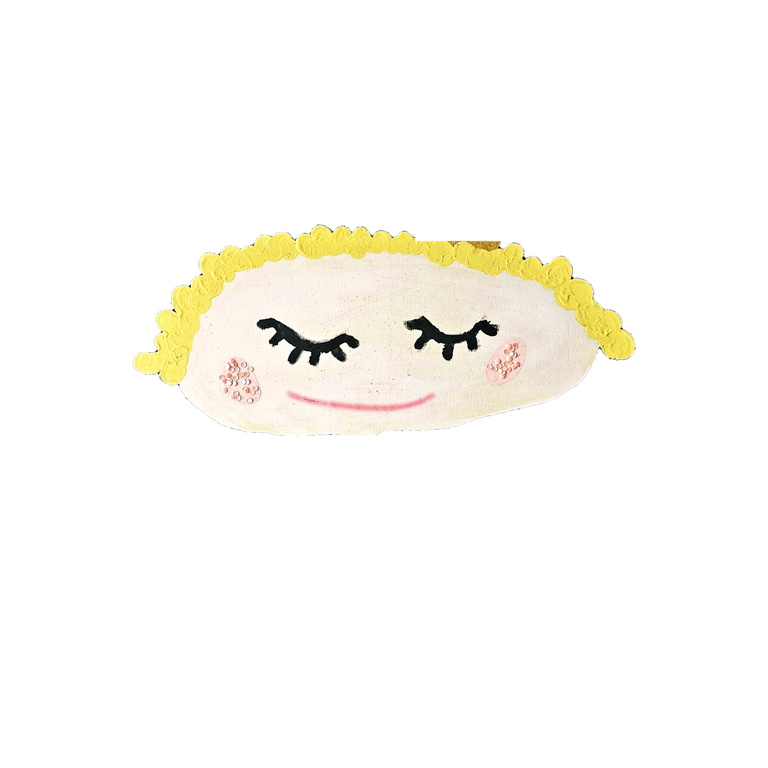
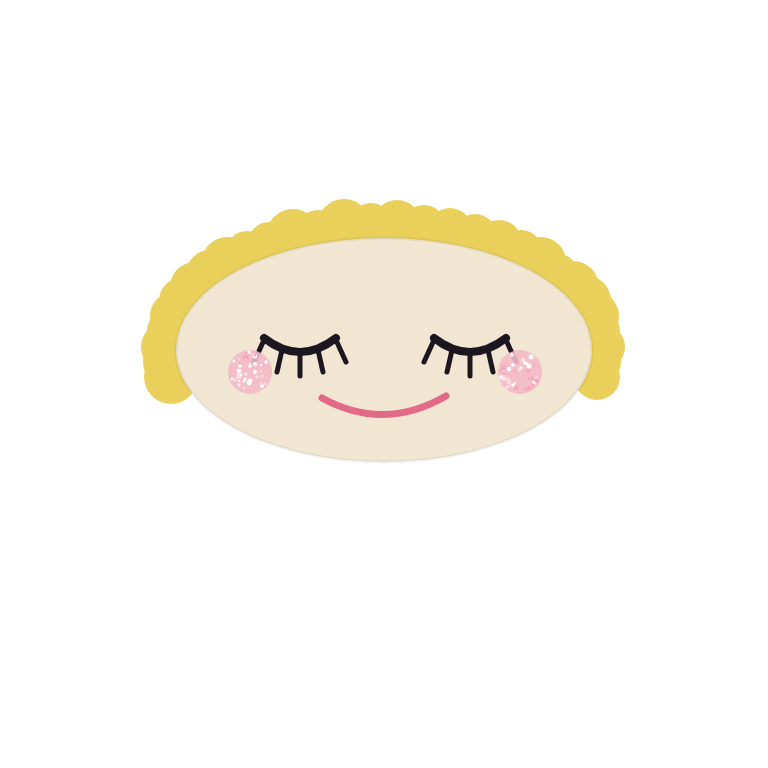
Runde Sonne, schwarze Schrift unten, Principesse als gezeichnete Figuren
Claude-Session: https://claude.ai/code/session_01EXrTH5dd9M1fFLb8w7hMWJ

Changed region(s): [[0.1562, 0.25, 0.8438, 0.625]]

diff --git a/index.html b/index.html
@@ -9,8 +9,8 @@
 <link rel="preconnect" href="https://fonts.googleapis.com">
 <link rel="preconnect" href="https://fonts.gstatic.com" crossorigin>
 <link href="https://fonts.googleapis.com/css2?family=Cinzel+Decorative:wght@700;900&family=Fraunces:ital,opsz,wght,SOFT@0,9..144,300..700,100;1,9..144,300..700,100&family=Instrument+Sans:wght@400;500;600&display=swap" rel="stylesheet">
-<link rel="stylesheet" href="style.css?v=202611072259">
-<script type="importmap">{"imports":{"three":"./vendor/three.module.min.js","three/addons/":"./vendor/addons/","./js/figur.js":"./js/figur.js?v=202611072259","./js/rahmen.js":"./js/rahmen.js?v=202611072259","./js/zauber.js":"./js/zauber.js?v=202611072259","./js/bestellen.js":"./js/bestellen.js?v=202611072259","./js/hintergrund.js":"./js/hintergrund.js?v=202611072259"}}</script>
+<link rel="stylesheet" href="style.css?v=202611072307">
+<script type="importmap">{"imports":{"three":"./vendor/three.module.min.js","three/addons/":"./vendor/addons/","./js/figur.js":"./js/figur.js?v=202611072307","./js/rahmen.js":"./js/rahmen.js?v=202611072307","./js/zauber.js":"./js/zauber.js?v=202611072307","./js/bestellen.js":"./js/bestellen.js?v=202611072307","./js/hintergrund.js":"./js/hintergrund.js?v=202611072307"}}</script>
 </head>
 <body>
 <canvas id="staub" aria-hidden="true"></canvas>
@@ -75,7 +75,7 @@
                   <rect class="stapel" data-i="5" x="52" y="30" width="96" height="140" rx="5" fill="#0f474e" stroke="#c99a3c" stroke-width="1.5" transform="translate(4.2 -2.2) rotate(2.6 100 170)"/><rect class="stapel" data-i="4" x="52" y="30" width="96" height="140" rx="5" fill="#0f474e" stroke="#c99a3c" stroke-width="1.5" transform="translate(8.4 -4.4) rotate(5.2 100 170)"/><rect class="stapel" data-i="3" x="52" y="30" width="96" height="140" rx="5" fill="#0f474e" stroke="#c99a3c" stroke-width="1.5" transform="translate(12.6 -6.6) rotate(7.8 100 170)"/><rect class="stapel" data-i="2" x="52" y="30" width="96" height="140" rx="5" fill="#0f474e" stroke="#c99a3c" stroke-width="1.5" transform="translate(16.8 -8.8) rotate(10.4 100 170)"/><rect class="stapel" data-i="1" x="52" y="30" width="96" height="140" rx="5" fill="#0f474e" stroke="#c99a3c" stroke-width="1.5" transform="translate(21.0 -11.0) rotate(13.0 100 170)"/><rect class="stapel" data-i="0" x="52" y="30" width="96" height="140" rx="5" fill="#0f474e" stroke="#c99a3c" stroke-width="1.5" transform="translate(25.2 -13.2) rotate(15.6 100 170)"/>
                   <rect x="52" y="30" width="96" height="140" rx="5" fill="#13575f" stroke="#d4a429" stroke-width="2.5"/>
                   <rect x="59" y="37" width="82" height="126" rx="3" fill="none" stroke="#e6c76a" stroke-width="1" stroke-dasharray="2 3" opacity=".8"/><g class="glitzerdruck"><circle cx="76.8" cy="47.6" r="0.86" fill="#fff3c4" opacity="0.55"/><circle cx="57.7" cy="106.5" r="0.76" fill="#fff3c4" opacity="0.61"/><circle cx="103.2" cy="70.5" r="0.66" fill="#fff3c4" opacity="0.63"/><circle cx="139.0" cy="37.4" r="1.08" fill="#e6c76a" opacity="0.90"/><circle cx="73.0" cy="74.9" r="1.06" fill="#ffffff" opacity="0.98"/><circle cx="130.7" cy="83.2" r="1.26" fill="#e6c76a" opacity="0.84"/><circle cx="100.5" cy="57.5" r="0.93" fill="#fff3c4" opacity="0.97"/><circle cx="128.0" cy="158.4" r="1.26" fill="#fff3c4" opacity="0.95"/><circle cx="106.4" cy="150.5" r="1.26" fill="#ffffff" opacity="0.60"/><circle cx="93.3" cy="72.0" r="0.91" fill="#fff3c4" opacity="0.65"/><circle cx="127.5" cy="39.7" r="0.54" fill="#ffffff" opacity="1.00"/><circle cx="101.7" cy="119.5" r="1.13" fill="#fff3c4" opacity="1.00"/><circle cx="73.2" cy="88.5" r="0.68" fill="#ffffff" opacity="0.72"/><circle cx="72.2" cy="91.5" r="1.03" fill="#ffffff" opacity="0.78"/><circle cx="135.6" cy="47.3" r="0.56" fill="#fff3c4" opacity="0.64"/><circle cx="107.2" cy="147.8" r="0.61" fill="#fff3c4" opacity="0.65"/><circle cx="58.3" cy="81.1" r="0.57" fill="#e6c76a" opacity="0.87"/><circle cx="140.5" cy="36.4" r="0.76" fill="#fff3c4" opacity="0.89"/><circle cx="92.1" cy="158.5" r="1.06" fill="#fff3c4" opacity="0.65"/><circle cx="72.8" cy="92.6" r="0.62" fill="#e6c76a" opacity="0.80"/><circle cx="70.0" cy="109.6" r="0.83" fill="#e6c76a" opacity="0.58"/><circle cx="125.0" cy="81.9" r="0.76" fill="#fff3c4" opacity="0.72"/><circle cx="74.2" cy="155.0" r="0.60" fill="#fff3c4" opacity="0.53"/><circle cx="70.8" cy="123.3" r="0.63" fill="#fff3c4" opacity="0.77"/><circle cx="107.3" cy="76.4" r="0.53" fill="#ffffff" opacity="0.65"/><circle cx="143.7" cy="120.0" r="0.68" fill="#fff3c4" opacity="0.62"/><circle cx="92.1" cy="38.9" r="0.88" fill="#fff3c4" opacity="0.82"/><circle cx="93.6" cy="62.5" r="0.67" fill="#fff3c4" opacity="0.63"/><circle cx="77.3" cy="61.5" r="0.71" fill="#e6c76a" opacity="0.57"/><circle cx="60.5" cy="156.5" r="1.01" fill="#ffffff" opacity="0.70"/><circle cx="135.3" cy="120.3" r="1.21" fill="#ffffff" opacity="0.52"/><circle cx="90.1" cy="90.8" r="1.34" fill="#ffffff" opacity="0.95"/><circle cx="137.4" cy="78.4" r="1.09" fill="#ffffff" opacity="0.66"/><circle cx="93.0" cy="62.4" r="1.22" fill="#e6c76a" opacity="0.67"/><circle cx="90.5" cy="99.5" r="1.27" fill="#e6c76a" opacity="0.98"/><circle cx="114.8" cy="39.9" r="1.31" fill="#fff3c4" opacity="0.88"/><circle cx="79.7" cy="147.0" r="1.28" fill="#ffffff" opacity="0.82"/><circle cx="106.1" cy="132.5" r="1.33" fill="#fff3c4" opacity="0.90"/><circle cx="74.6" cy="54.7" r="1.05" fill="#e6c76a" opacity="0.56"/><circle cx="127.3" cy="137.4" r="1.29" fill="#ffffff" opacity="0.53"/><circle cx="139.7" cy="55.4" r="1.05" fill="#ffffff" opacity="0.89"/><circle cx="97.5" cy="103.5" r="0.52" fill="#fff3c4" opacity="0.85"/><circle cx="65.9" cy="108.0" r="0.73" fill="#fff3c4" opacity="0.52"/><circle cx="63.0" cy="150.0" r="1.31" fill="#e6c76a" opacity="0.92"/><circle cx="128.8" cy="45.2" r="0.99" fill="#e6c76a" opacity="0.60"/><circle cx="141.9" cy="85.3" r="1.18" fill="#e6c76a" opacity="0.55"/></g>
-                  <image href="assets/principessa2-figur.png?v=202611072259" x="55" y="50" width="90" height="90"/>
+                  <image href="assets/principessa2-figur.png?v=202611072307" x="55" y="50" width="90" height="90"/>
                   <path d="M132 44 l2 5 5 2 -5 2 -2 5 -2 -5 -5 -2 5 -2z M68 142 l1.5 4 4 1.5 -4 1.5 -1.5 4 -1.5 -4 -4 -1.5 4 -1.5z" fill="#e2b548"/>
                 </svg>
                 <span class="produkt-name">Karten</span>
@@ -97,7 +97,7 @@
                   <g class="tasche-koerper">
                     <path d="M64 74 C64 22 96 22 96 74 M104 74 C104 22 136 22 136 74" fill="none" stroke="#2c2766" stroke-width="7" stroke-linecap="round"/>
                     <path d="M44 72 H156 L163 184 H37 Z" fill="#1e1a4c" stroke="#2c2766" stroke-width="1.5" stroke-linejoin="round"/>
-                    <image href="assets/principessa3-schwanz.png?v=202611072259" x="55" y="80" width="90" height="90"/><image href="assets/principessa3-rumpf.png?v=202611072259" x="55" y="80" width="90" height="90"/><image href="assets/principessa3-kopf.png?v=202611072259" x="55" y="80" width="90" height="90"/><image href="assets/principessa3-krone.png?v=202611072259" x="55" y="80" width="90" height="90"/>
+                    <image href="assets/principessa3-schwanz.png?v=202611072307" x="55" y="80" width="90" height="90"/><image href="assets/principessa3-rumpf.png?v=202611072307" x="55" y="80" width="90" height="90"/><image href="assets/principessa3-kopf.png?v=202611072307" x="55" y="80" width="90" height="90"/><image href="assets/principessa3-krone.png?v=202611072307" x="55" y="80" width="90" height="90"/>
                   </g>
                 </svg>
                 <span class="produkt-name">Tasche</span>
@@ -122,8 +122,8 @@
                   <path class="shirt-stoff" d="M62 34 L84 26 Q100 40 116 26 L138 34 L172 62 L152 84 L140 74 V180 H60 V74 L48 84 L28 62 Z" fill="#f2c4d2" stroke="rgba(0,0,0,.14)" stroke-width="1.5" stroke-linejoin="round"/>
                   <path d="M84 26 Q100 40 116 26" fill="none" stroke="rgba(0,0,0,.14)" stroke-width="3"/>
                   <g class="motiv" data-motiv="Sonne"><image data-principessa="1" x="64" y="60" width="72" height="72"/></g>
-                  <g class="motiv" data-motiv="Tupfen" style="display:none"><image href="assets/principessa2-figur.png?v=202611072259" x="64" y="60" width="72" height="72"/></g>
-                  <g class="motiv" data-motiv="Meerjungfrau" style="display:none"><image href="assets/principessa3-schwanz.png?v=202611072259" x="64" y="60" width="72" height="72"/><image href="assets/principessa3-rumpf.png?v=202611072259" x="64" y="60" width="72" height="72"/><image href="assets/principessa3-kopf.png?v=202611072259" x="64" y="60" width="72" height="72"/><image href="assets/principessa3-krone.png?v=202611072259" x="64" y="60" width="72" height="72"/></g>
+                  <g class="motiv" data-motiv="Tupfen" style="display:none"><image href="assets/principessa2-figur.png?v=202611072307" x="64" y="60" width="72" height="72"/></g>
+                  <g class="motiv" data-motiv="Meerjungfrau" style="display:none"><image href="assets/principessa3-schwanz.png?v=202611072307" x="64" y="60" width="72" height="72"/><image href="assets/principessa3-rumpf.png?v=202611072307" x="64" y="60" width="72" height="72"/><image href="assets/principessa3-kopf.png?v=202611072307" x="64" y="60" width="72" height="72"/><image href="assets/principessa3-krone.png?v=202611072307" x="64" y="60" width="72" height="72"/></g>
                 </svg>
                 <span class="produkt-name">Shirt</span>
                 <span class="produkt-text">Weiches Baumwollshirt</span>
@@ -140,8 +140,8 @@
                 </div>
                 <div class="option motive" role="radiogroup" aria-label="Motiv"><span class="option-titel">Motiv</span>
                   <label class="motivwahl" title="Sonne und Kuppeln"><input type="radio" name="shirt-motiv" value="Sonne" checked><svg viewBox="0 0 60 60" aria-hidden="true"><image data-principessa="1" x="2" y="2" width="56" height="56"/></svg><em>Sonne</em></label>
-                  <label class="motivwahl" title="Tupfenkleid"><input type="radio" name="shirt-motiv" value="Tupfen"><svg viewBox="0 0 60 60" aria-hidden="true"><image href="assets/principessa2-figur.png?v=202611072259" x="2" y="2" width="56" height="56"/></svg><em>Tupfen</em></label>
-                  <label class="motivwahl" title="Meerjungfrau"><input type="radio" name="shirt-motiv" value="Meerjungfrau"><svg viewBox="0 0 60 60" aria-hidden="true"><image href="assets/principessa3-schwanz.png?v=202611072259" x="2" y="2" width="56" height="56"/><image href="assets/principessa3-rumpf.png?v=202611072259" x="2" y="2" width="56" height="56"/><image href="assets/principessa3-kopf.png?v=202611072259" x="2" y="2" width="56" height="56"/><image href="assets/principessa3-krone.png?v=202611072259" x="2" y="2" width="56" height="56"/></svg><em>Meerjungfrau</em></label>
+                  <label class="motivwahl" title="Tupfenkleid"><input type="radio" name="shirt-motiv" value="Tupfen"><svg viewBox="0 0 60 60" aria-hidden="true"><image href="assets/principessa2-figur.png?v=202611072307" x="2" y="2" width="56" height="56"/></svg><em>Tupfen</em></label>
+                  <label class="motivwahl" title="Meerjungfrau"><input type="radio" name="shirt-motiv" value="Meerjungfrau"><svg viewBox="0 0 60 60" aria-hidden="true"><image href="assets/principessa3-schwanz.png?v=202611072307" x="2" y="2" width="56" height="56"/><image href="assets/principessa3-rumpf.png?v=202611072307" x="2" y="2" width="56" height="56"/><image href="assets/principessa3-kopf.png?v=202611072307" x="2" y="2" width="56" height="56"/><image href="assets/principessa3-krone.png?v=202611072307" x="2" y="2" width="56" height="56"/></svg><em>Meerjungfrau</em></label>
                 </div>
               </div>
             </section>
@@ -164,6 +164,6 @@
   </section>
 </main>
 
-<script type="module" src="js/main.js?v=202611072259"></script>
+<script type="module" src="js/main.js?v=202611072307"></script>
 </body>
 </html>

diff --git a/style.css b/style.css
@@ -183,18 +183,18 @@ html { scroll-snap-type: y mandatory; }
   padding: .12em .7em .18em;
   color: inherit;
   text-decoration: none;
-  border: 1px solid rgba(247, 242, 236, .65);
+  border: 1px solid rgba(42, 34, 48, .6);
   border-radius: 999px;
   transition: border-color .3s ease, background .3s ease, box-shadow .3s ease;
 }
-.bestellen:hover, .bestellen:focus-visible { border-color: var(--gold); background: rgba(255, 248, 225, .18); box-shadow: 0 0 0 3px rgba(212, 164, 41, .18); outline: none; }
+.bestellen:hover, .bestellen:focus-visible { border-color: var(--gold); background: rgba(255, 248, 225, .45); box-shadow: 0 0 0 3px rgba(212, 164, 41, .18); outline: none; }
 #glitzer { background: #0f5e78; color: var(--creme); }
 #gluecksbringer { background: linear-gradient(#0a3550, #2e2f72 20%, #5b4790 50%, #8e5f9c 78%, #b9759a); color: var(--creme); }
 #gluecksbringer .zauber { text-shadow: 0 1px 12px rgba(30, 20, 60, .45); }
 #verweilen { background: var(--nacht); color: var(--creme); }
 #ankommen {
   background: #b98ab6;
-  color: var(--creme);
+  color: var(--linie);
   display: flex;
   flex-direction: column;
   justify-content: space-between;

diff --git a/werkzeug/figuren-zeichnen.py b/werkzeug/figuren-zeichnen.py
@@ -1,0 +1,112 @@
+import random, math
+random.seed(3)
+def kopf_svg(W, H, dateien):
+    pass
+# ---------------- Principessa 2: Tupfenkleid (Box 1024)
+def p2():
+    o = []; p = o.append; N = 1024
+    p(f'<svg xmlns="http://www.w3.org/2000/svg" width="{N}" height="{N}" viewBox="0 0 {N} {N}">')
+    p('<defs><filter id="w" x="-20%" y="-20%" width="140%" height="140%"><feGaussianBlur stdDeviation="2"/></filter></defs>')
+    L = '#1c1620'; W = '#faf7f2'; ROSA = '#f1c3d2'; ROT = '#c3162d'
+    # Beine mit Füssen
+    for x, fx in [(368, -38), (498, 42)]:
+        p(f'<path d="M{x},700 L{x-6},960 L{x-6+fx},960" fill="none" stroke="{W}" stroke-width="22" stroke-linecap="round" stroke-linejoin="round"/>')
+        p(f'<path d="M{x},700 L{x-6},960 L{x-6+fx},960" fill="none" stroke="rgba(0,0,0,.08)" stroke-width="26" stroke-linecap="round" stroke-linejoin="round" filter="url(#w)" opacity=".5"/>')
+    # Kleid: Glocke, leicht gedreht
+    p(f'<path d="M372,445 C330,560 300,650 290,735 C370,745 480,745 580,728 C560,650 530,560 500,440 Z" fill="{ROSA}"/>')
+    p(f'<path d="M372,445 C330,560 300,650 290,735 C370,745 480,745 580,728 C560,650 530,560 500,440 Z" fill="url(#g)" opacity=".18"/>')
+    p('<defs><linearGradient id="g" x1="0" y1="0" x2="1" y2="1"><stop offset="0" stop-color="#fff"/><stop offset="1" stop-color="#b86a8a"/></linearGradient></defs>')
+    for cx, cy, r in [(400,520,26),(475,500,22),(355,620,24),(440,610,30),(520,585,22),(395,700,22),(480,690,26),(545,665,20),(330,700,16)]:
+        p(f'<circle cx="{cx}" cy="{cy}" r="{r}" fill="{W}" opacity=".95"/>')
+    # Arme in die Hüften
+    p(f'<path d="M382,470 C300,500 245,560 240,620 C250,640 300,655 330,640" fill="none" stroke="{W}" stroke-width="26" stroke-linecap="round" stroke-linejoin="round"/>')
+    p(f'<path d="M500,462 C590,480 650,540 655,600 C640,630 590,640 560,628" fill="none" stroke="{W}" stroke-width="26" stroke-linecap="round" stroke-linejoin="round"/>')
+    # Kopf, schief gelegt
+    p(f'<g transform="rotate(-18 440 290)">')
+    p(f'<ellipse cx="440" cy="290" rx="235" ry="150" fill="{W}"/>')
+    p(f'<ellipse cx="440" cy="290" rx="235" ry="150" fill="none" stroke="rgba(0,0,0,.06)" stroke-width="3"/>')
+    # Augen geschlossen mit Wimpern
+    for ax, ay, b in [(345, 300, 70), (515, 300, 70)]:
+        p(f'<path d="M{ax-b/2},{ay} Q{ax},{ay+28} {ax+b/2},{ay}" fill="none" stroke="{L}" stroke-width="7" stroke-linecap="round"/>')
+        for k in range(5):
+            t = -1 + k*.5; x0 = ax + t*b/2; y0 = ay + 28*(1-t*t)*.5 + 2
+            p(f'<path d="M{x0:.0f},{y0:.0f} l{t*10:.0f},22" stroke="{L}" stroke-width="5" stroke-linecap="round"/>')
+    # Mund
+    p(f'<path d="M405,372 C415,360 430,360 440,368 C450,360 465,362 472,372 C460,390 420,392 405,372 Z" fill="{ROT}"/>')
+    # Krone: breiter Glitzerkranz oben rechts
+    p(f'<path d="M470,120 L500,185 L540,110 L560,180 L610,125 L612,200 L660,170 L640,235 C600,255 520,250 455,210 Z" fill="#cdb79a"/>')
+    for _ in range(420):
+        x = random.uniform(462, 655); y = random.uniform(125, 250)
+        if y < 120 + (x-462)*.2: continue
+        p(f'<circle cx="{x:.0f}" cy="{y:.0f}" r="{random.uniform(1.5,4.5):.1f}" fill="{random.choice(["#fff7e0","#e8d2a8","#f4e3ff","#d6ecff","#ffdbe8","#c7b48c","#ffffff"])}"/>')
+    p('</g>')
+    p('</svg>'); return '\n'.join(o)
+
+# ---------------- Principessa 3: Meerjungfrau in Teilen (Box 768)
+def p3():
+    teile = {}
+    L = '#1c1620'; HAUT = '#f1e6d2'; GELB = '#e9d05a'
+    def svg(body):
+        return f'<svg xmlns="http://www.w3.org/2000/svg" width="768" height="768" viewBox="0 0 768 768">{body}</svg>'
+    # Kopf (Mitte ~ 384,345; Original 240..640 x, 240..440 y)
+    k = []
+    # Locken aussen
+    for i in range(30):
+        a = math.pi*(1.08 + i/30*1.1*(-1)) if False else -0.22 + i/29*(math.pi+.44)
+        x = 384 + math.cos(a)*218; y = 350 - math.sin(a)*126
+        k.append(f'<circle cx="{x:.0f}" cy="{y:.0f}" r="{random.uniform(20,27):.0f}" fill="{GELB}"/>')
+    k.append(f'<ellipse cx="384" cy="350" rx="208" ry="112" fill="{HAUT}"/>')
+    k.append(f'<ellipse cx="384" cy="350" rx="208" ry="112" fill="none" stroke="rgba(0,0,0,.05)" stroke-width="3"/>')
+    for ax in (300, 470):
+        k.append(f'<path d="M{ax-36},338 Q{ax},366 {ax+36},338" fill="none" stroke="{L}" stroke-width="8" stroke-linecap="round"/>')
+        for t in (-1, -.5, 0, .5, 1):
+            x0 = ax + t*36; y0 = 338 + 28*(1-t*t)*.5 + 2
+            k.append(f'<path d="M{x0:.0f},{y0:.0f} l{t*10:.0f},22" stroke="{L}" stroke-width="5" stroke-linecap="round"/>')
+    # Glitzerwangen
+    for cx in (250, 520):
+        k.append(f'<circle cx="{cx}" cy="372" r="22" fill="#f3b9c6" opacity=".9"/>')
+        for _ in range(40):
+            a, r = random.random()*6.3, math.sqrt(random.random())*20
+            k.append(f'<circle cx="{cx+math.cos(a)*r:.0f}" cy="{372+math.sin(a)*r:.0f}" r="{random.uniform(1,2.5):.1f}" fill="{random.choice(["#fff","#ffd9e4","#f6a5bd"])}"/>')
+    k.append(f'<path d="M322,398 Q384,432 446,396" fill="none" stroke="#e36a86" stroke-width="7" stroke-linecap="round"/>')
+    teile['kopf'] = svg(''.join(k))
+    # Krone (Original ~ x 455..520, y 20..240)
+    c = []
+    c.append(f'<path d="M466,236 L458,70 L484,100 L492,52 L506,102 L532,70 L524,236 Z" fill="#c9972c"/>')
+    for _ in range(260):
+        x = random.uniform(460, 528); y = random.uniform(70, 236)
+        c.append(f'<circle cx="{x:.0f}" cy="{y:.0f}" r="{random.uniform(1,3.5):.1f}" fill="{random.choice(["#f3d27a","#a8741f","#fff0b8","#d9a43a"])}"/>')
+    for cx, cy in [(458, 56), (492, 38), (532, 56)]:
+        c.append(f'<circle cx="{cx}" cy="{cy}" r="16" fill="#1f6a4a"/>')
+        for _ in range(26):
+            a, r = random.random()*6.3, math.sqrt(random.random())*14
+            c.append(f'<circle cx="{cx+math.cos(a)*r:.0f}" cy="{cy+math.sin(a)*r:.0f}" r="{random.uniform(.8,2):.1f}" fill="{random.choice(["#7fe0b0","#2e9a6a","#c8ffe0"])}"/>')
+    teile['krone'] = svg(''.join(c))
+    # Rumpf mit Armen (Original y 455..520)
+    r = []
+    r.append(f'<path d="M352,452 L416,452 L426,520 L342,520 Z" fill="{HAUT}"/>')
+    r.append(f'<path d="M356,462 C300,470 258,500 246,530" fill="none" stroke="{HAUT}" stroke-width="16" stroke-linecap="round"/>')
+    r.append(f'<path d="M412,462 C470,470 512,500 526,530" fill="none" stroke="{HAUT}" stroke-width="16" stroke-linecap="round"/>')
+    r.append(f'<circle cx="244" cy="532" r="10" fill="{HAUT}"/><circle cx="528" cy="532" r="10" fill="{HAUT}"/>')
+    teile['rumpf'] = svg(''.join(r))
+    # Schwanz (Original y 515..755)
+    s = []
+    farben = ['#2fae8e','#4fc3a8','#2a7f8a','#e8b9c7','#86c96b','#3dae8f','#e8b9c7','#2fae8e','#1f6f7a']
+    # Umriss: Zylinder, der sich verjüngt, unten Flosse
+    s.append('<defs><clipPath id="cs"><path d="M336,512 L432,512 C438,600 430,660 418,700 L350,700 C338,660 330,600 336,512 Z"/></clipPath></defs>')
+    n = len(farben); y0, y1 = 512, 700
+    for i, f in enumerate(farben):
+        s.append(f'<rect x="300" y="{y0+(y1-y0)*i/n:.0f}" width="170" height="{(y1-y0)/n+1:.0f}" fill="{f}" clip-path="url(#cs)"/>')
+    for _ in range(420):
+        x = random.uniform(340, 430); y = random.uniform(515, 698)
+        s.append(f'<circle cx="{x:.0f}" cy="{y:.0f}" r="{random.uniform(1.2,3.6):.1f}" fill="{random.choice(["#ffffff","#a6f5ea","#fff2b0","#2a9d8f"])}" opacity=".85" clip-path="url(#cs)"/>')
+    # Flosse
+    s.append(f'<path d="M352,698 C320,720 300,748 306,760 C340,752 370,736 384,722 C398,736 428,752 462,760 C468,748 448,720 416,698 Z" fill="#4fc3a8"/>')
+    for _ in range(60):
+        x = random.uniform(312, 456); y = random.uniform(708, 756)
+        s.append(f'<circle cx="{x:.0f}" cy="{y:.0f}" r="{random.uniform(1,3):.1f}" fill="#d9fff4" opacity=".8"/>')
+    teile['schwanz'] = svg(''.join(s))
+    return teile
+open('p2.svg','w').write(p2())
+for n, t in p3().items(): open(f'p3-{n}.svg','w').write(t)
+print('ok')

diff --git a/werkzeug/kopfbild-zeichnen.py b/werkzeug/kopfbild-zeichnen.py
@@ -62,12 +62,11 @@ def mond(cx, cy, r, dx, dy):
     p(f'<circle cx="{cx*S}" cy="{cy*S}" r="{r*S}" fill="#f4ecf3" mask="url(#{m})"/>')
 mond(48, 50, 34, 15, -9); glanz['mond'] += [[.065, .05], [.045, .08]]
 mond(483, 322, 15, 8, -5)
-# Sonne: unregelmässiger Rand, dichter Glitzer
-pts = []
-for i in range(140):
-    a = i/140*math.tau; rr = 214 + random.uniform(-9, 9) + 6*math.sin(a*7)
-    pts.append(f"{(285+math.cos(a)*rr)*S:.1f},{(262+math.sin(a)*rr)*S:.1f}")
-p(f'<polygon points="{" ".join(pts)}" fill="{GOLD}"/>')
+# Sonne: rund, mit weichem Glitzersaum
+p(f'<circle cx="{285*S}" cy="{262*S}" r="{214*S}" fill="{GOLD}"/>')
+for _ in range(700):
+    a = random.random()*math.tau; rr = 214 + random.uniform(0, 9)
+    p(f'<circle cx="{(285+math.cos(a)*rr)*S:.1f}" cy="{(262+math.sin(a)*rr)*S:.1f}" r="{random.uniform(1.5,4):.1f}" fill="{random.choice([GOLD, GOLD_H, GOLD_D])}"/>')
 for _ in range(4200):
     a, rr = random.random()*math.tau, math.sqrt(random.random())*212
     x, y = 285 + math.cos(a)*rr, 262 + math.sin(a)*rr
